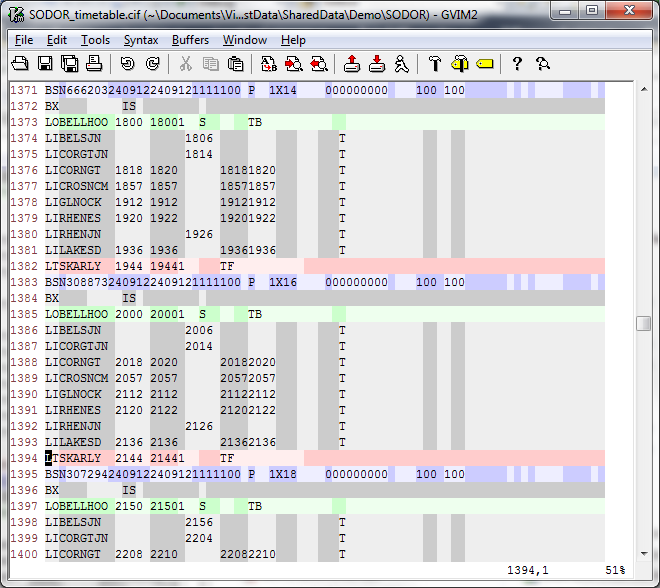
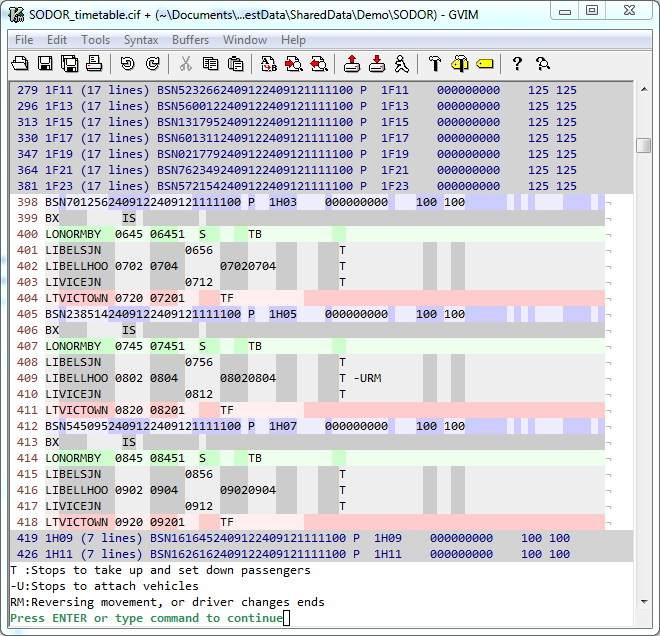
Add folding and activity code interpretation

diff --git a/README.md b/README.md
@@ -1,17 +1,18 @@
-CIF Syntax File For vim/gvim
-===
+# CIF Syntax File For vim/gvim
 
 A vim/gvim syntax highlighting for CIF timetable files.
 
 ![](CIFVimSyntax.png)
 
-Installation
----
+## Installation
 
-Copy the `syntax` and `ftdetect` folders to `$HOME/.vim` (on unix-like systems) or `$HOME\vimfiles` on Windows.
+Copy the `syntax`, `ftdetect` and `ftplugin` folders to `$HOME/.vim` (on unix-like systems) or `$HOME\vimfiles` on Windows.
 
-AOB
----
+## Commands
+
+* `<leader>ca` shows the interpretation of the activity codes on the current line
+
+# AOB
 
 For further information on the CIF file format, see [ATOC's spec](http://www.atoc.org/clientfiles/File/RSPS5004%20v27.pdf).
 
